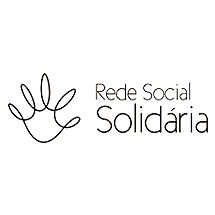
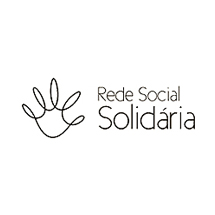
Better image quality

Changed region(s): [[0.4465, 0.3628, 0.9767, 0.6419], [0.0279, 0.3349, 0.3907, 0.6698]]

diff --git a/index.html b/index.html
@@ -88,9 +88,9 @@
     <div class="box-item box-item-three-quarters">
       <div class="box box-fluid box-jobs">
         <a href="#" class="box-item box-item-one-quarter box-job" style="background-image:url(assets/img/jobs/rss.jpg)"></a>
-        <a href="#" class="box-item box-item-one-quarter box-job" style="background-image:url(assets/img/jobs/the-shopping.jpg)">2</a>
-        <a href="#" class="box-item box-item-one-quarter box-job" style="background-image:url(assets/img/jobs/uninovafapi.jpg)">3</a>
-        <a href="#" class="box-item box-item-one-quarter box-job" style="background-image:url(assets/img/jobs/capital-teresina.jpg)">4</a>
+        <a href="#" class="box-item box-item-one-quarter box-job" style="background-image:url(assets/img/jobs/the-shopping.jpg)"></a>
+        <a href="#" class="box-item box-item-one-quarter box-job" style="background-image:url(assets/img/jobs/uninovafapi.jpg)"></a>
+        <a href="#" class="box-item box-item-one-quarter box-job" style="background-image:url(assets/img/jobs/capital-teresina.jpg)"></a>
       </div>
     </div>
   </div>

diff --git a/assets/css/styles-alternate.css b/assets/css/styles-alternate.css
@@ -100,7 +100,8 @@ a:hover {
   display:inline-block;
   width:100%;
   height:200px;
-  background-size: cover
+  background-size: cover;
+  background-position: center center
 }
 
 @media only screen and (min-width:30em) {
